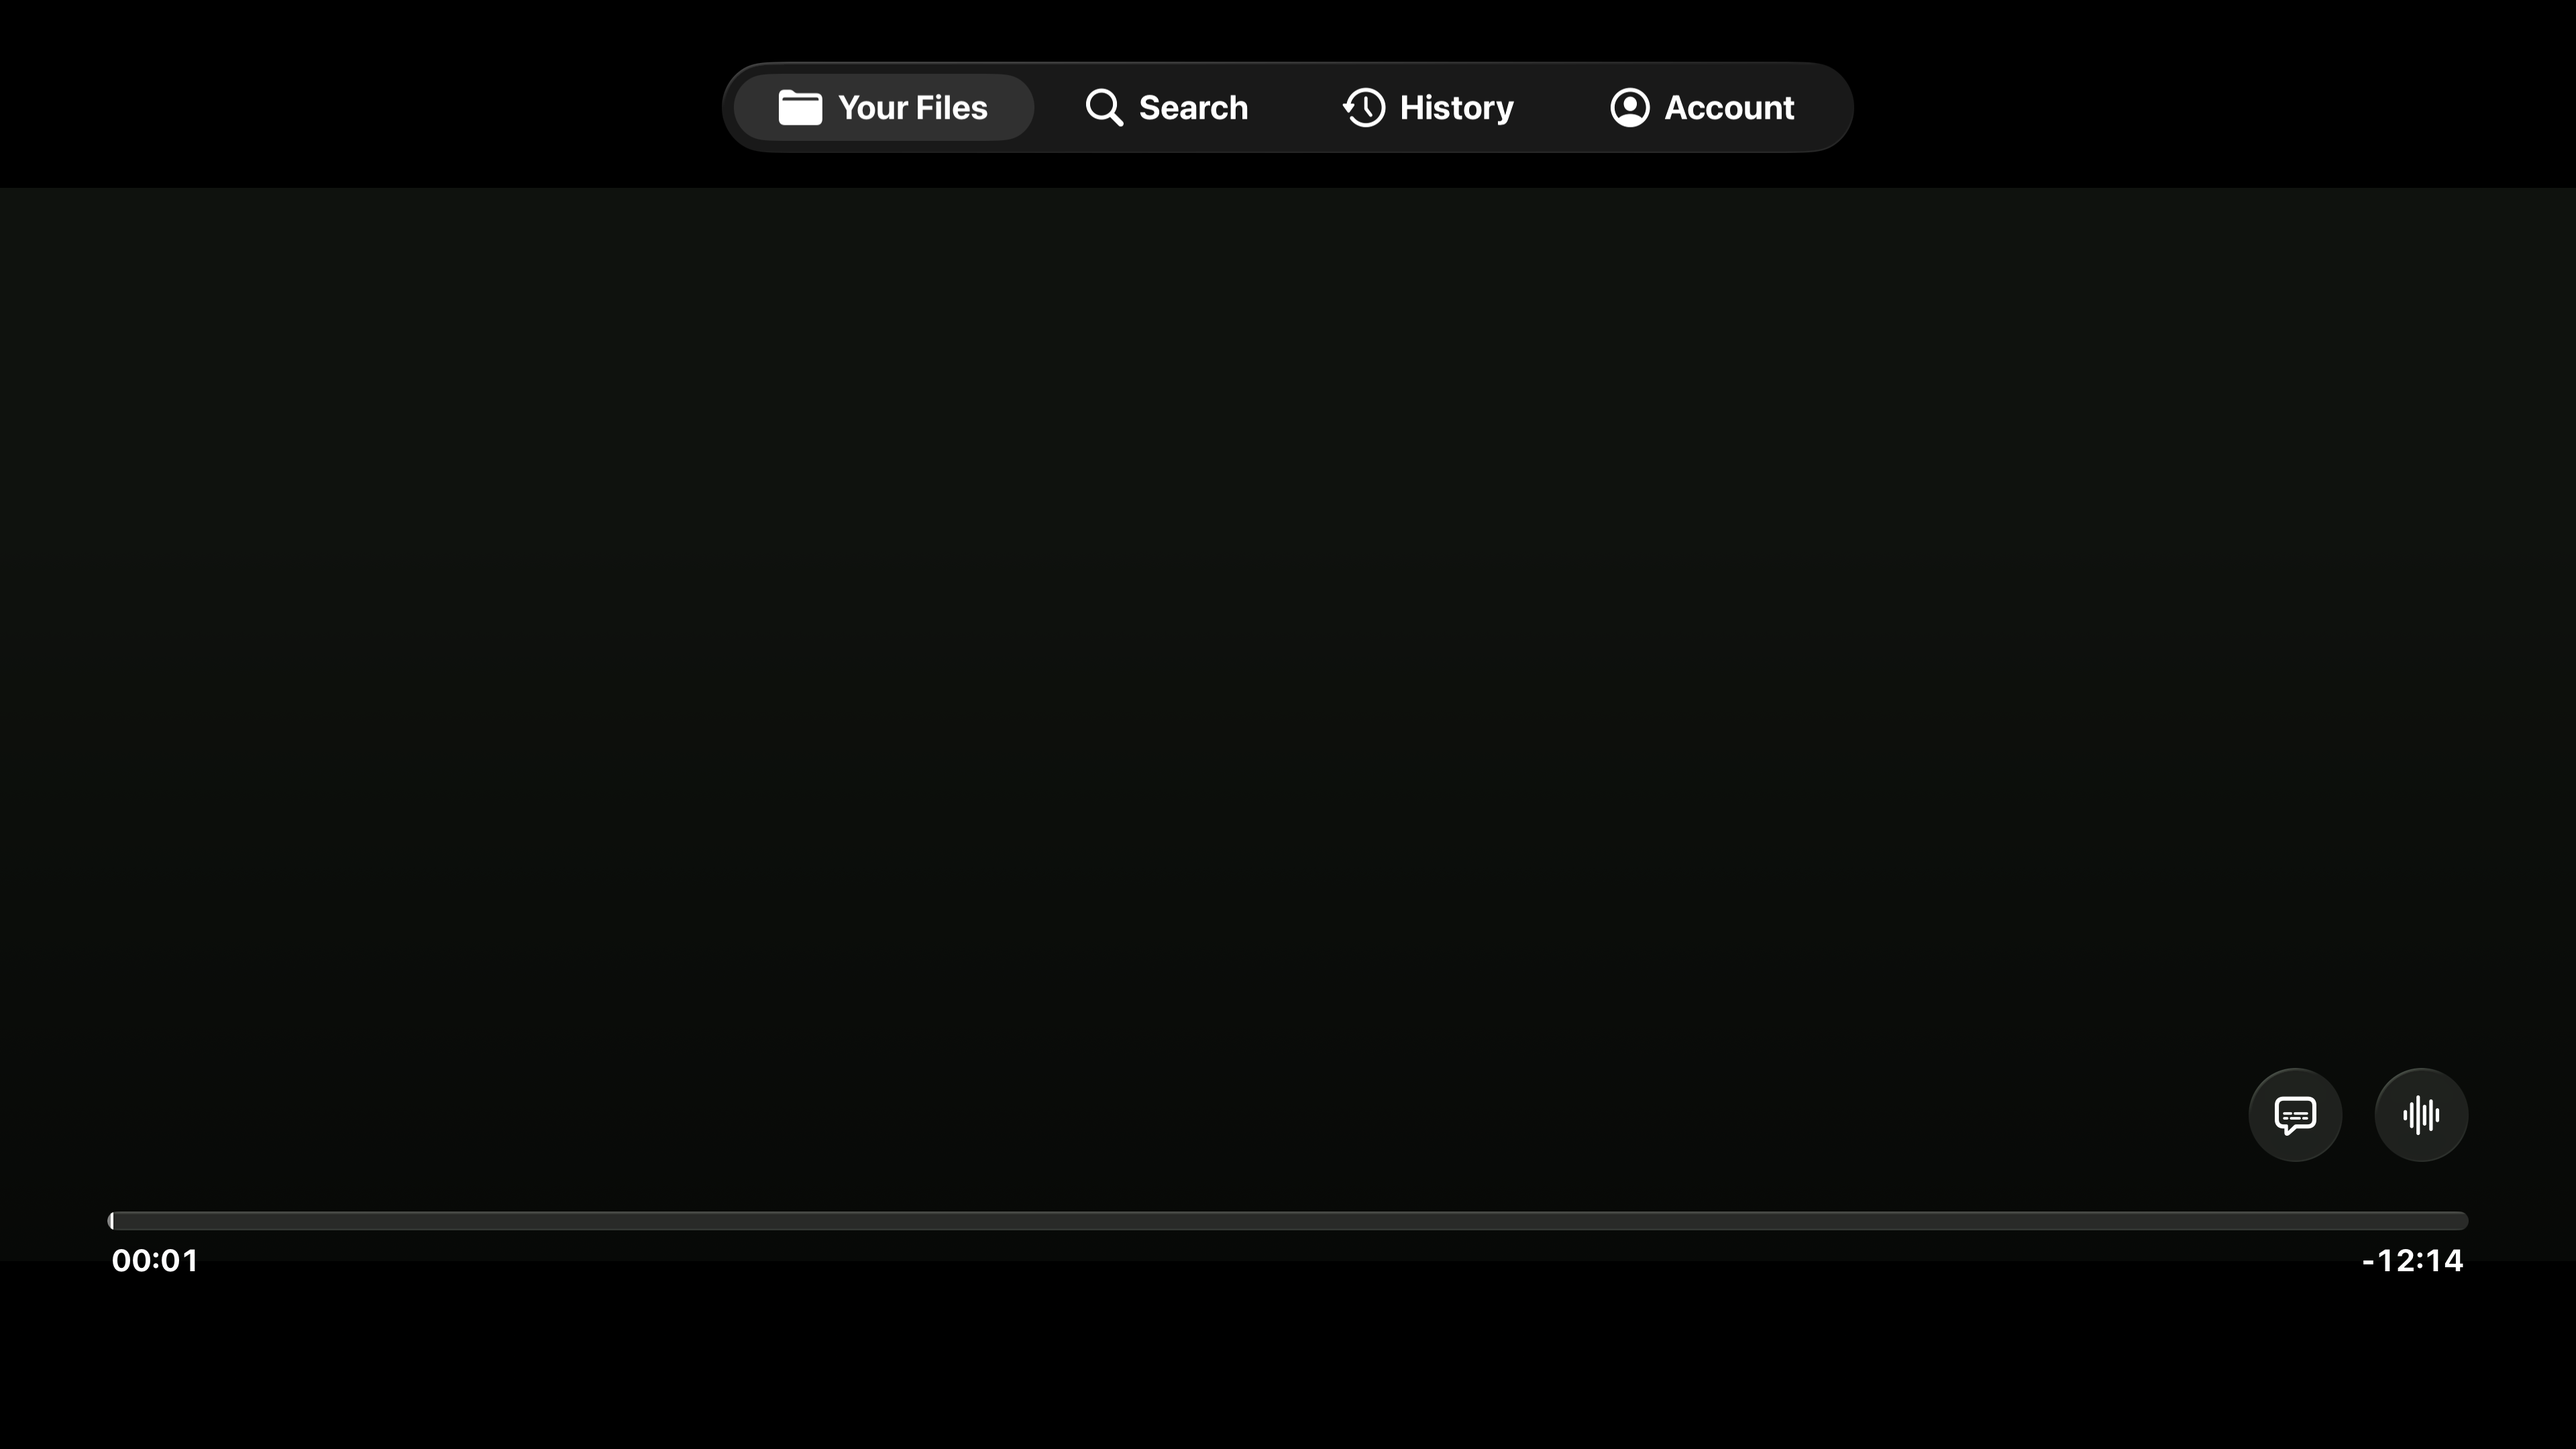
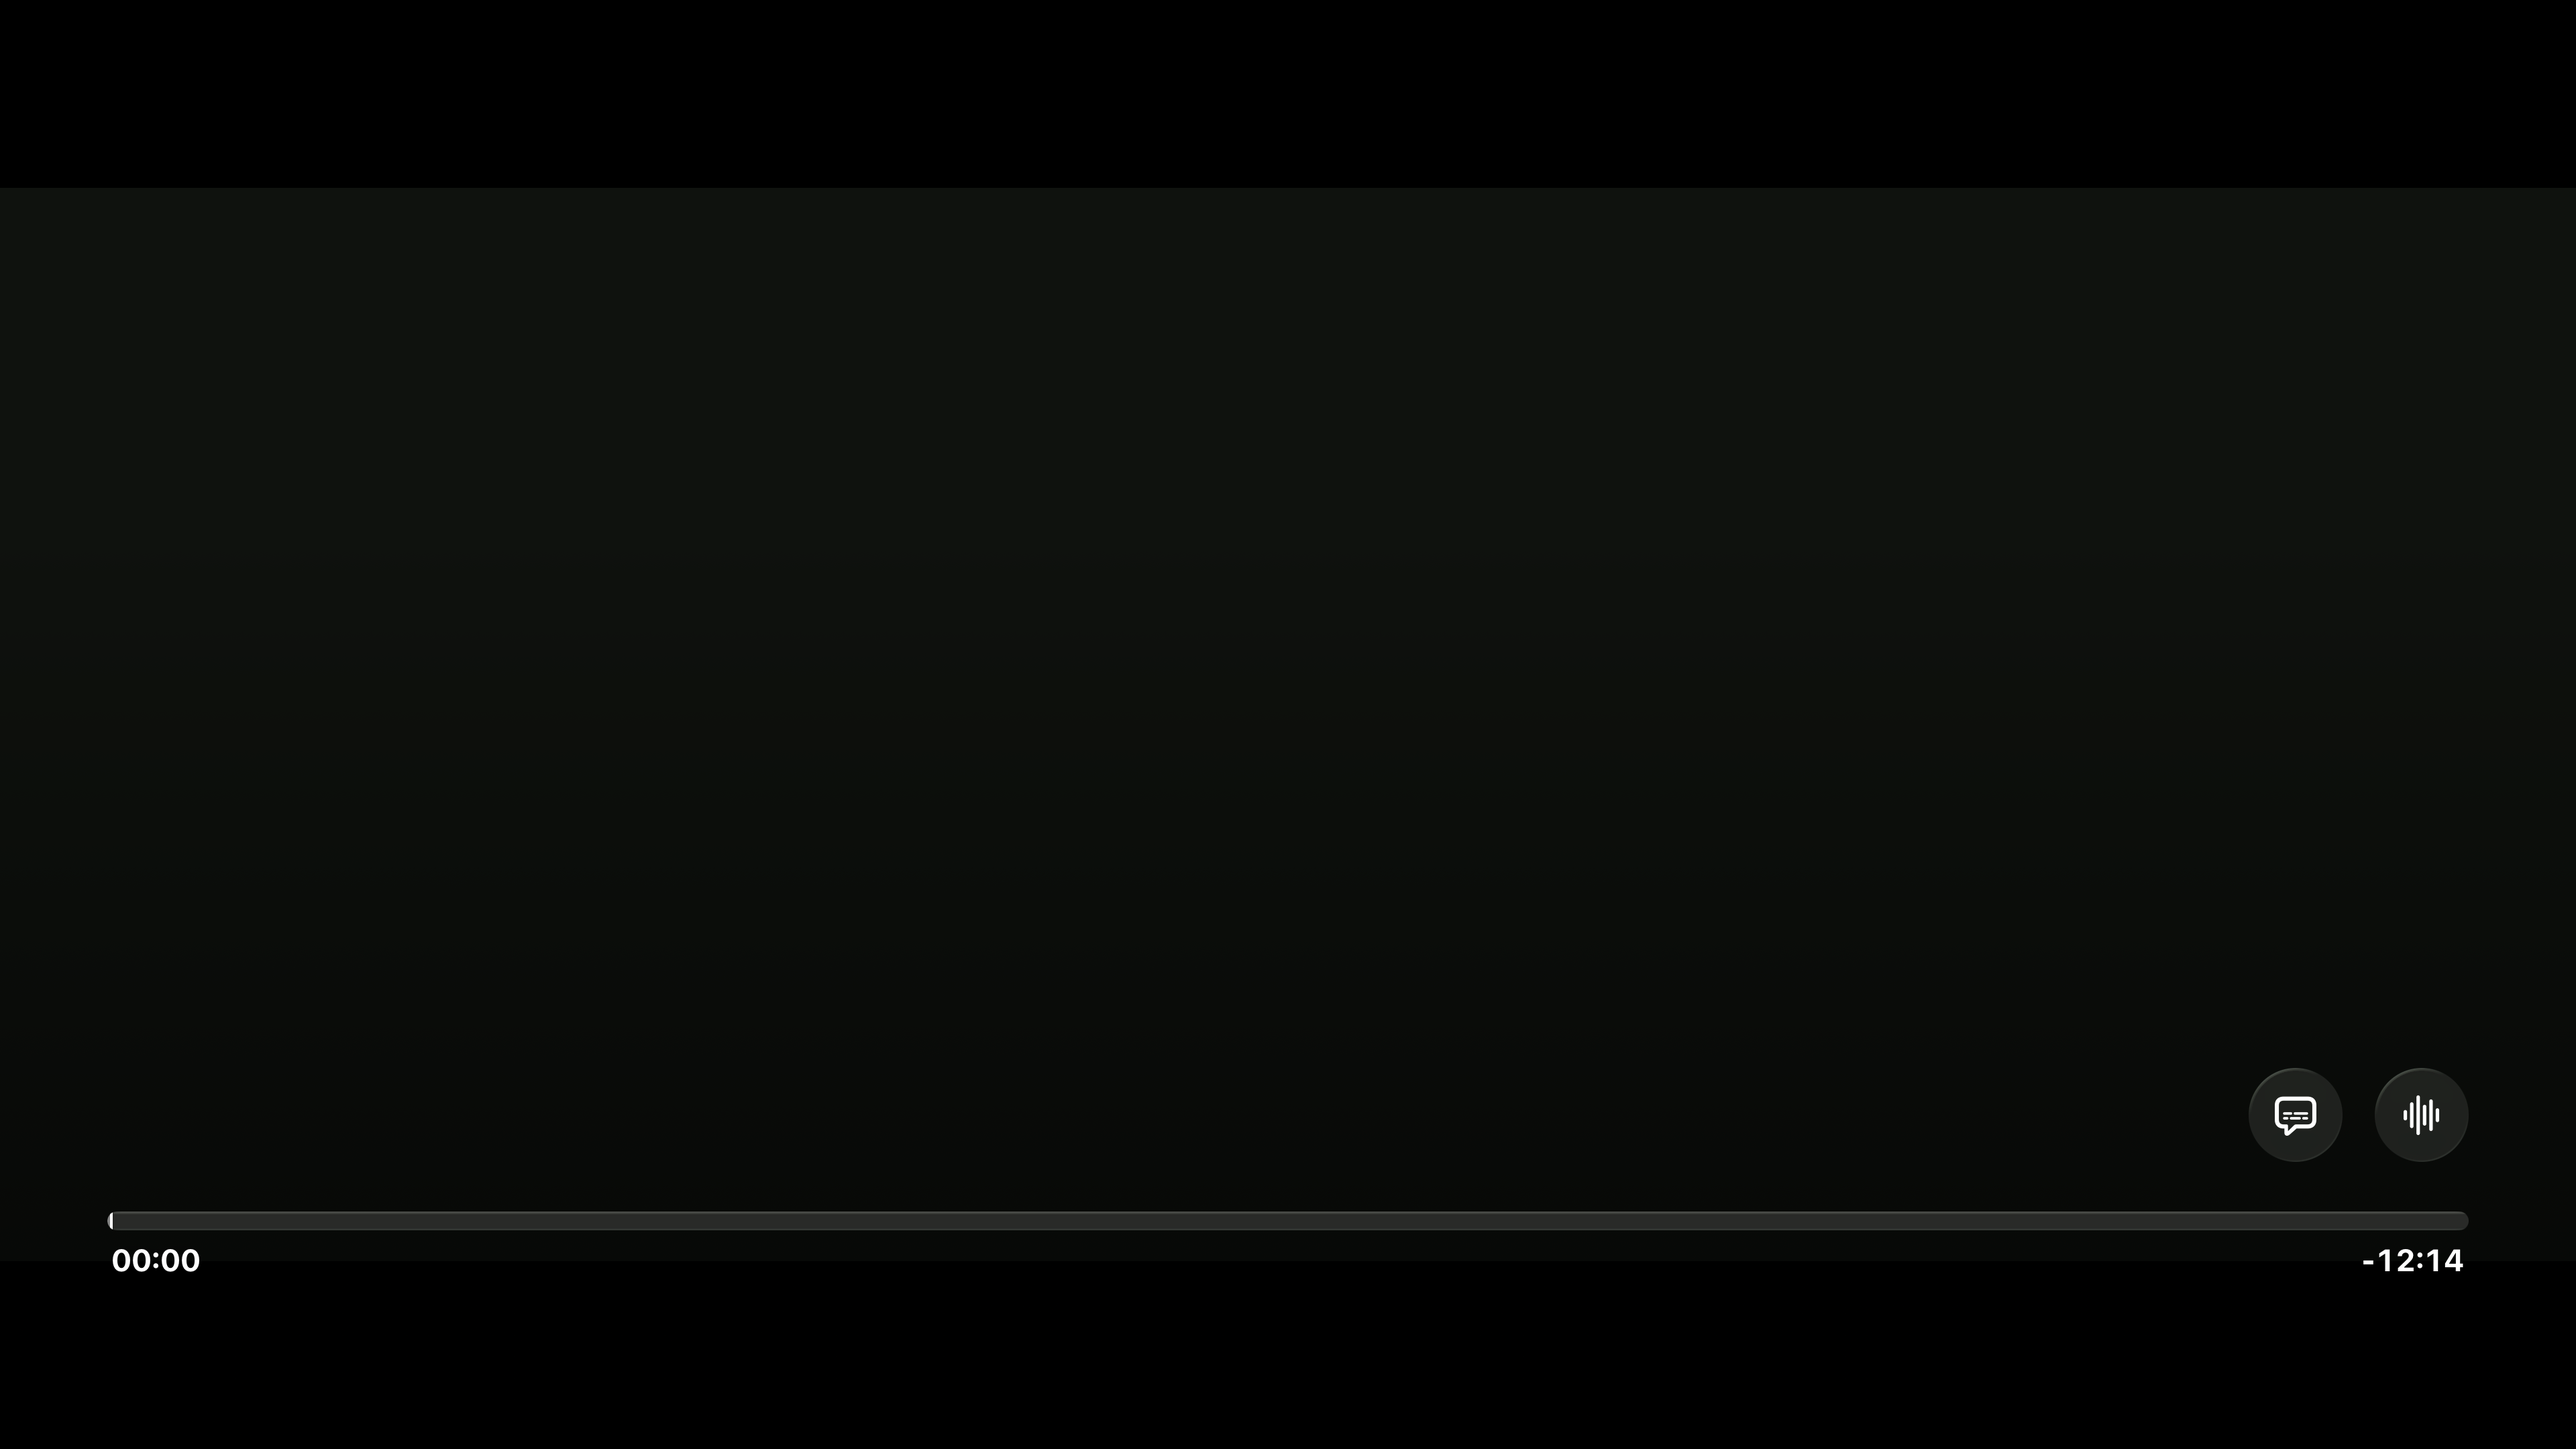
fix(tvos): present player via fullScreenCover so the tab strip stops drawing over video
Routes player presentation through a new PlayerPresenter coordinator on
AppContainer instead of pushing a `.player(...)` destination into each
tab's NavigationStack. MainTabs now fullScreenCovers the player, which
sits above the system TabView — so playback fills the screen without
the top tab strip rendering on top of the video.

Captures refreshed accordingly:
- 17-video-playback now shows full-bleed Tears of Steel
- 18-video-controls shows the AVPlayer chrome (subtitles + audio
  buttons, seek bar, elapsed/remaining) with no tab strip overlap

Changed region(s): [[0.2812, 0.031, 0.7188, 0.1241]]

diff --git a/PutioTV/App/AppContainer.swift b/PutioTV/App/AppContainer.swift
@@ -7,6 +7,7 @@ import PutioSDK
 ///
 /// Created once in `PutioTVApp` and never replaced.
 @MainActor
+@Observable
 final class AppContainer {
     let api: PutioSDK
     let tokenStore: TokenStoring
@@ -17,6 +18,7 @@ final class AppContainer {
     let trash: TrashRepositoryProtocol
     let media: MediaRepositoryProtocol
     let playback: PlaybackSession
+    let player: PlayerPresenter
 
     init() {
         let api = PutioClient.make()
@@ -44,5 +46,27 @@ final class AppContainer {
             media: media,
             tokenProvider: { [weak auth] in auth?.state.token }
         )
+        self.player = PlayerPresenter()
     }
+}
+
+/// Coordinator for the full-screen player presentation. Sits above the
+/// `TabView` shell so the system tab strip stops drawing over video.
+@MainActor
+@Observable
+final class PlayerPresenter {
+    var presented: PlayerRequest?
+
+    func present(fileID: Int) {
+        presented = PlayerRequest(fileID: fileID)
+    }
+
+    func dismiss() {
+        presented = nil
+    }
+}
+
+struct PlayerRequest: Identifiable, Hashable {
+    let fileID: Int
+    var id: Int { fileID }
 }

diff --git a/PutioTV/Features/Files/FilesView.swift b/PutioTV/Features/Files/FilesView.swift
@@ -81,11 +81,11 @@ struct FilesView: View {
             if isFolder {
                 path.append(HomeDestination(route: .files(parentID: file.id)))
             } else if isVideo {
-                path.append(HomeDestination(route: .player(fileID: file.id)))
+                container.player.present(fileID: file.id)
             } else {
                 // Non-video file: leaf that the player view will render the
                 // unsupported-file state for.
-                path.append(HomeDestination(route: .player(fileID: file.id)))
+                container.player.present(fileID: file.id)
             }
         } label: {
             PutListRow(

diff --git a/PutioTV/Features/History/HistoryView.swift b/PutioTV/Features/History/HistoryView.swift
@@ -51,7 +51,7 @@ struct HistoryView: View {
                             ForEach(group.items) { item in
                                 Button {
                                     if let fileID = item.fileID {
-                                        path.append(HomeDestination(route: .player(fileID: fileID)))
+                                        container.player.present(fileID: fileID)
                                     }
                                 } label: {
                                     PutListRow(

diff --git a/PutioTV/Features/Search/SearchView.swift b/PutioTV/Features/Search/SearchView.swift
@@ -50,7 +50,7 @@ struct SearchView: View {
                             if file.type == .folder {
                                 path.append(HomeDestination(route: .files(parentID: file.id)))
                             } else {
-                                path.append(HomeDestination(route: .player(fileID: file.id)))
+                                container.player.present(fileID: file.id)
                             }
                         } label: {
                             PutListRow(

diff --git a/PutioTV/App/PutioTVApp.swift b/PutioTV/App/PutioTVApp.swift
@@ -104,6 +104,11 @@ struct MainTabs: View {
             .tabItem { Label("Account", systemImage: "person.crop.circle") }
             .tag(Tab.account)
         }
+        .fullScreenCover(item: Bindable(container.player).presented) { request in
+            PlayerView(container: container, fileID: request.fileID)
+                .background(Color.black.ignoresSafeArea())
+                .onDisappear { container.player.dismiss() }
+        }
     }
 
     @ViewBuilder

diff --git a/PutioTV/Features/Player/PlayerView.swift b/PutioTV/Features/Player/PlayerView.swift
@@ -37,6 +37,8 @@ struct PlayerView: View {
         }
         .onAppear { session.open(fileID: fileID) }
         .onDisappear { session.reset() }
+        .toolbar(.hidden, for: .navigationBar)
+        .persistentSystemOverlays(.hidden)
     }
 
     private func playerSurface(source: PlaybackSourceResolver.Source, startAt: Int) -> some View {
